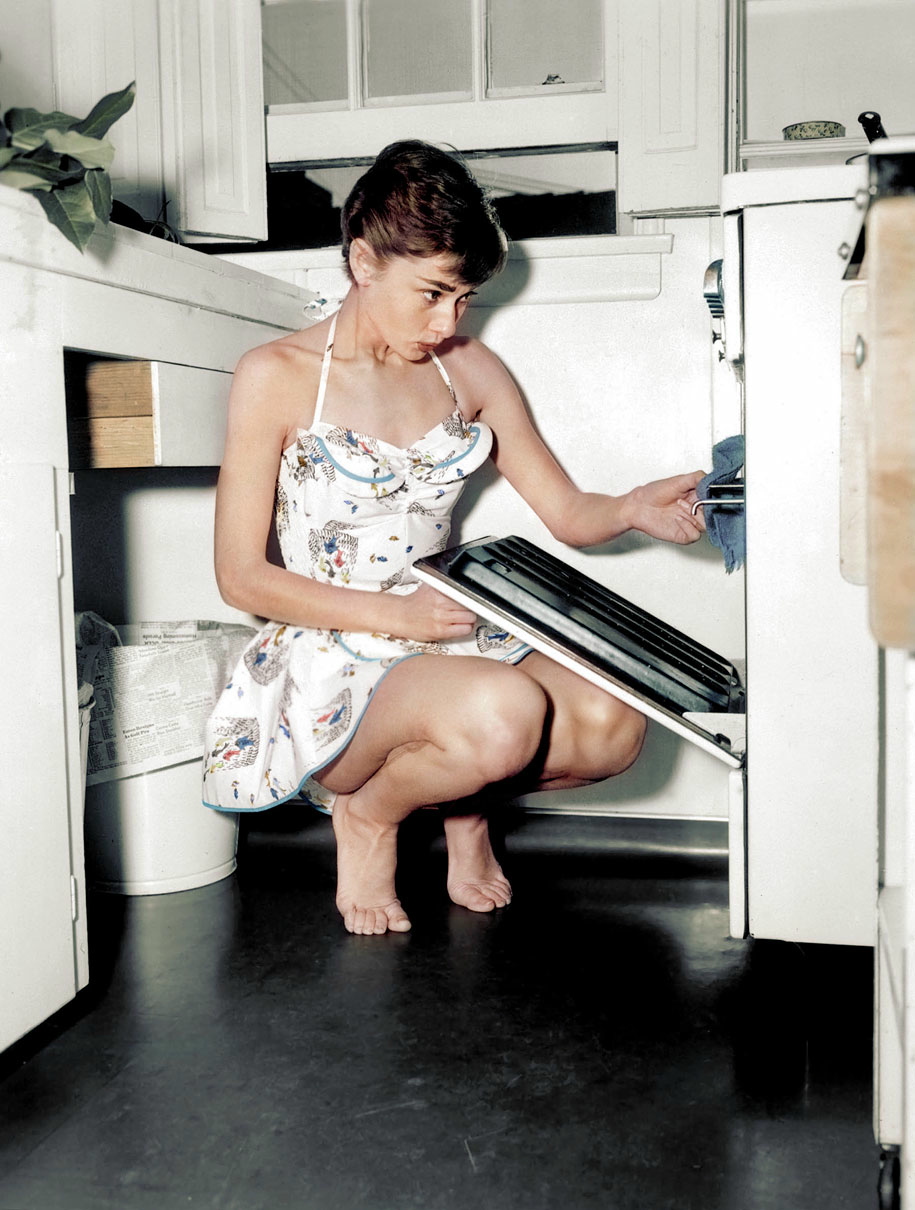
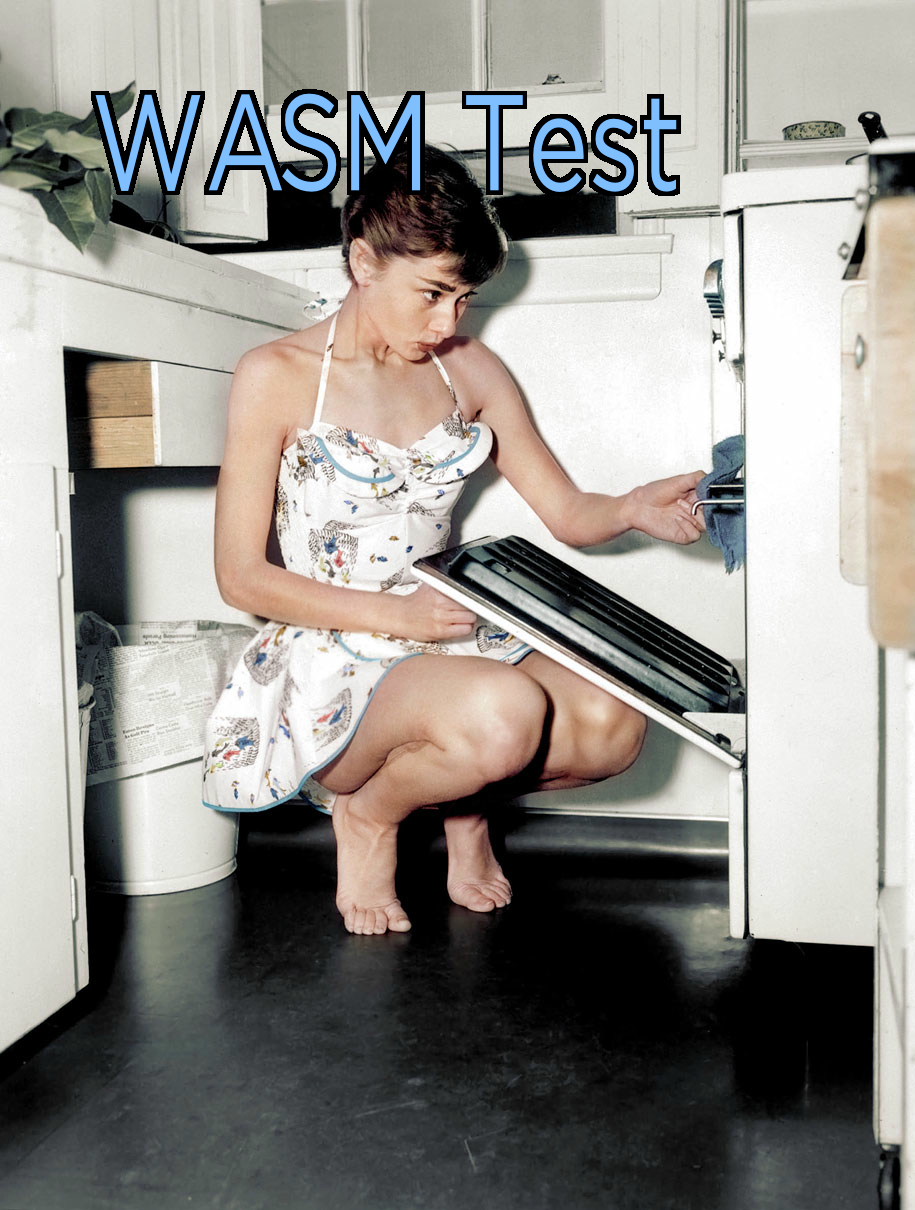
Testing text overlays

Changed region(s): [[0.0918, 0.0612, 0.4896, 0.1835], [0.5814, 0.0612, 0.765, 0.1835], [0.4896, 0.0612, 0.5814, 0.1835]]

diff --git a/src/lib.rs b/src/lib.rs
@@ -74,6 +74,11 @@ pub fn convert_image(buffer: &Buffer) -> Vec<u8> {
 #[cfg(test)]
 mod tests {
     use super::*;
+    use ab_glyph::{PxScale, Font, FontRef};
+    use image::{DynamicImage, ImageResult, Rgba};
+    use imageproc::distance_transform::Norm;
+    use imageproc::drawing::draw_text_mut;
+    use imageproc::morphology::dilate_mut;
 
     #[allow(unused)]
     #[test]
@@ -85,16 +90,76 @@ mod tests {
         // img.save_with_format("test.png", ImageFormat::Png)?;
 
         let file_bytes = std::fs::read("Audrey Hepburn.jpg").unwrap();
-        let img2 = ImageReader::new(Cursor::new(file_bytes))
+        let mut image = ImageReader::new(Cursor::new(file_bytes))
             .with_guessed_format()?
             .decode()?;
 
+        // Convert to PNG
         let mut bytes: Vec<u8> = Vec::new();
-        img2.write_to(&mut Cursor::new(&mut bytes), image::ImageFormat::Png)?;
+        image.write_to(&mut Cursor::new(&mut bytes), image::ImageFormat::Png)?;
+
+        let image_bytes_to_write = overlay_text("WASM Test", &bytes)?;
 
         //let output = convert_image_not_wasm(&bytes);
-        std::fs::write("test.png", bytes)?;
+        std::fs::write("test.png", image_bytes_to_write)?;
         //image::save_buffer("test.png", &bytes, w, h, ct)?;
         Ok(())
     }
+
+    fn overlay_text(text: &str, img_data: &[u8]) -> ImageResult<Vec<u8>> {
+        let sb_img = image::load_from_memory(img_data).unwrap();
+
+        let mut image = sb_img.to_rgba8();
+
+        let mut overlay: DynamicImage = DynamicImage::new_luma8(image.width(), image.height());
+
+        let font_bytes: &[u8] = include_bytes!("../GothamBook.ttf") as &[u8];
+        let font = FontRef::try_from_slice(font_bytes).unwrap();
+        let scale = PxScale {
+            x: image.width() as f32 * 0.1,
+            y: image.height() as f32 * 0.1,
+        };
+
+        let x = (image.width() as f32 * 0.10) as i32;
+        let y = (image.width() as f32 * 0.10) as i32;
+
+        draw_text_mut(
+            &mut overlay,
+            Rgba([255u8, 255u8, 255u8, 255u8]),
+            x,
+            y,
+            scale,
+            &font,
+            text,
+        );
+
+        let mut image2 = overlay.to_luma8();
+        dilate_mut(&mut image2, Norm::LInf, 4u8);
+
+        for x in 0..image2.width() {
+            for y in 0..image2.height() {
+                let pixval = 255 - image2.get_pixel(x, y).0[0];
+                if pixval != 255 {
+                    let new_pix = Rgba([pixval, pixval, pixval, 255]);
+                    image.put_pixel(x, y, new_pix);
+                }
+            }
+        }
+        image2.save("test_overlay.png")?;
+
+        draw_text_mut(
+            &mut image,
+            Rgba([0u8, 128u8, 255u8, 128u8]),
+            x,
+            y,
+            scale,
+            &font,
+            text,
+        );
+
+        let mut bytes: Vec<u8> = Vec::new();
+        image.write_to(&mut Cursor::new(&mut bytes), image::ImageFormat::Png)?;
+        Ok(bytes)
+    }
+
 }
